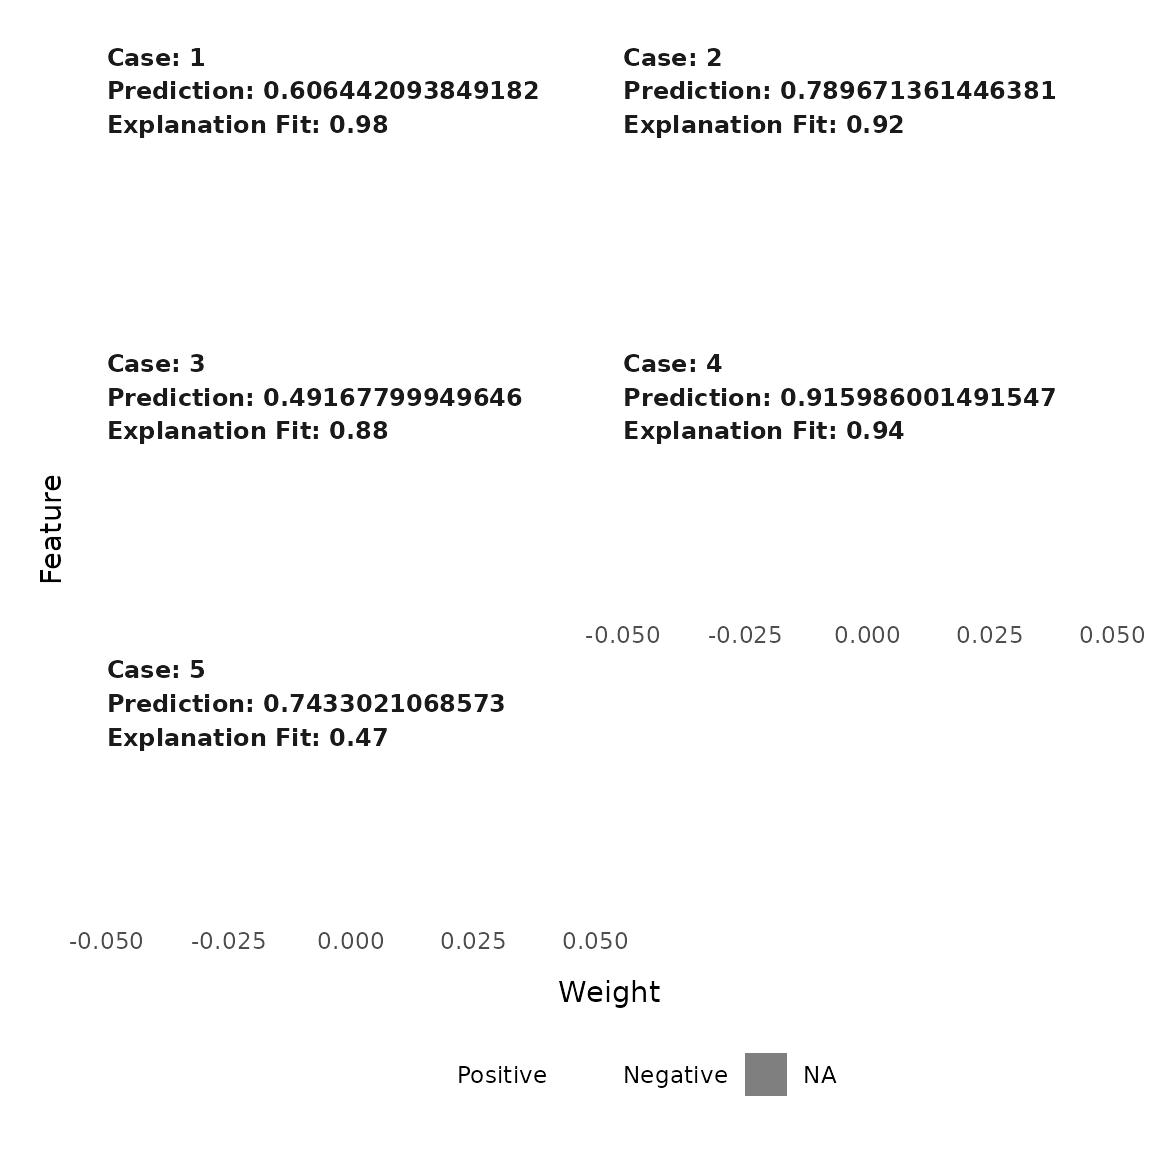
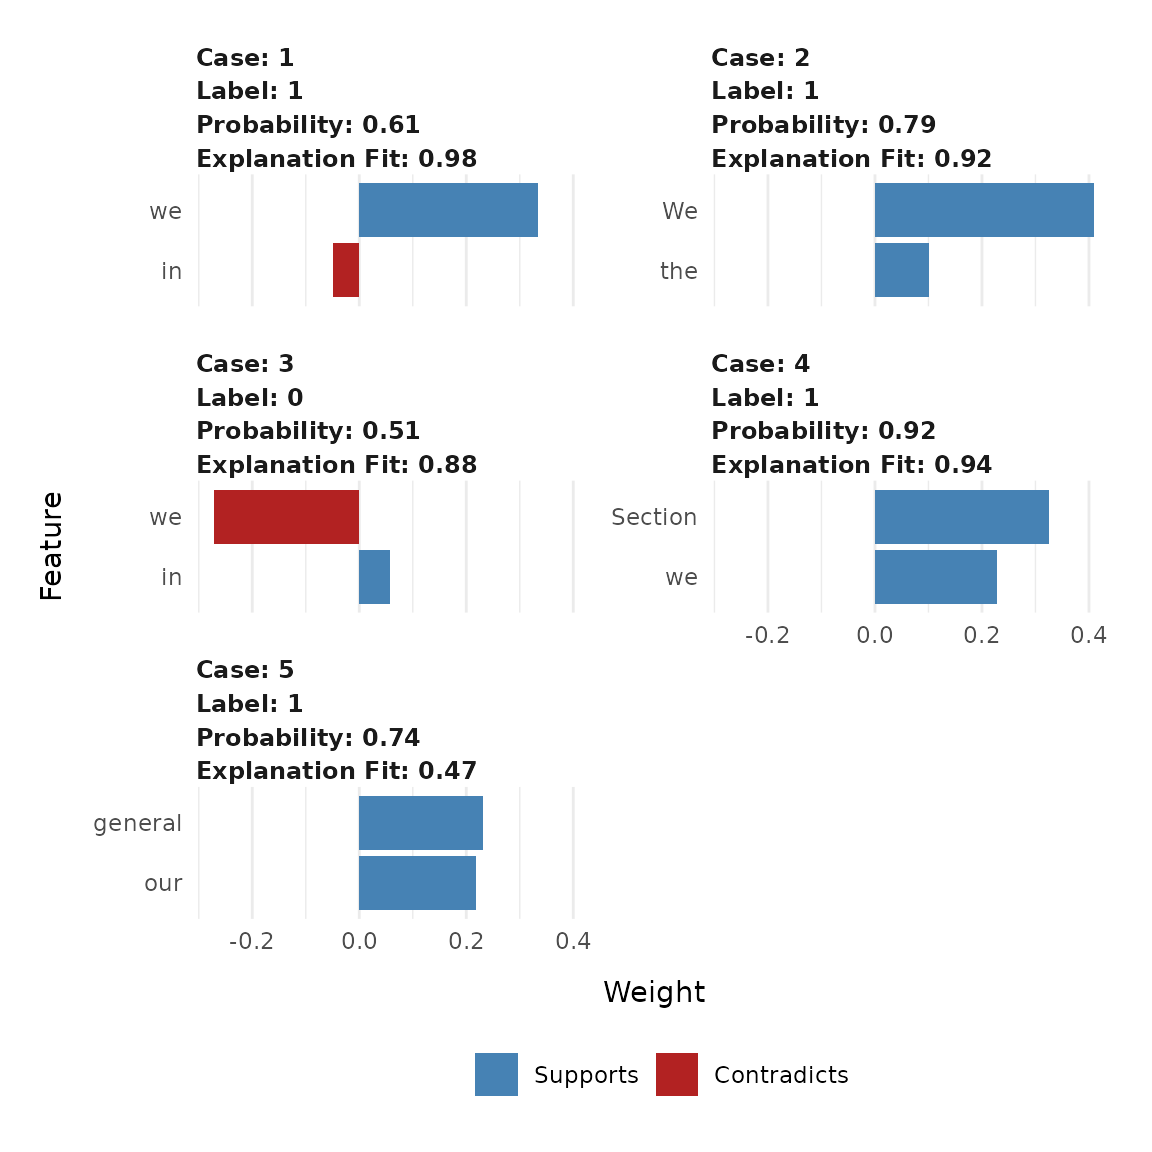
Deploying to gh-pages from @ tidymodels/lime@cdb8d6a0028526e7f50db6c62eb69ca609d4a9a8 🚀

diff --git a/articles/Understanding_lime.html b/articles/Understanding_lime.html
@@ -98,7 +98,7 @@
                         <h4 data-toc-skip class="author">Thomas Lin
 Pedersen &amp; Michaël Benesty</h4>
             
-            <h4 data-toc-skip class="date">2025-12-09</h4>
+            <h4 data-toc-skip class="date">2025-12-10</h4>
       
       <small class="dont-index">Source: <a href="https://github.com/tidymodels/lime/blob/main/vignettes/Understanding_lime.Rmd" class="external-link"><code>vignettes/Understanding_lime.Rmd</code></a></small>
       <div class="hidden name"><code>Understanding_lime.Rmd</code></div>
@@ -465,54 +465,36 @@ are the most important words for the predictions.</p>
 <span>  <span class="va">explainer</span>,</span>
 <span>  n_labels <span class="op">=</span> <span class="fl">1</span>,</span>
 <span>  n_features <span class="op">=</span> <span class="fl">2</span></span>
-<span><span class="op">)</span></span></code></pre></div>
-<pre><code><span><span class="co">## Warning in explain.character(sentence_to_explain, explainer, n_labels = 1, :</span></span>
-<span><span class="co">## "labels" and "n_labels" arguments are ignored when explaining regression models</span></span></code></pre>
-<pre><code><span><span class="co">## Warning in throw_err_or_depr_msg("Parameter(s) have been removed from this</span></span>
-<span><span class="co">## function: ", : Parameter(s) have been removed from this function: reshape. This</span></span>
-<span><span class="co">## warning will become an error in a future version.</span></span></code></pre>
-<div class="sourceCode" id="cb19"><pre class="downlit sourceCode r">
-<code class="sourceCode R"><span><span class="co"># Most of the words choosen by Lime</span></span>
+<span><span class="op">)</span></span>
+<span></span>
+<span><span class="co"># Most of the words choosen by Lime</span></span>
 <span><span class="co"># are related to the team (we, our)</span></span>
 <span><span class="co"># or part of the paper (Section, in)</span></span>
 <span><span class="va">explanation</span><span class="op">[</span>, <span class="fl">2</span><span class="op">:</span><span class="fl">9</span><span class="op">]</span></span></code></pre></div>
 <pre><code><span><span class="co">## <span style="color: #949494;"># A data frame: 10 × 8</span></span></span>
-<span><span class="co">##     case model_r2 model_intercept model_prediction feature feature_value</span></span>
-<span><span class="co">##    <span style="color: #949494; font-style: italic;">&lt;int&gt;</span>    <span style="color: #949494; font-style: italic;">&lt;dbl&gt;</span>           <span style="color: #949494; font-style: italic;">&lt;dbl&gt;</span>            <span style="color: #949494; font-style: italic;">&lt;dbl&gt;</span> <span style="color: #949494; font-style: italic;">&lt;chr&gt;</span>   <span style="color: #949494; font-style: italic;">&lt;chr&gt;</span>        </span></span>
-<span><span class="co">## <span style="color: #BCBCBC;"> 1</span>     1    0.980           0.333            0.618 we      we           </span></span>
-<span><span class="co">## <span style="color: #BCBCBC;"> 2</span>     1    0.980           0.333            0.618 in      in           </span></span>
-<span><span class="co">## <span style="color: #BCBCBC;"> 3</span>     2    0.916           0.253            0.762 We      We           </span></span>
-<span><span class="co">## <span style="color: #BCBCBC;"> 4</span>     2    0.916           0.253            0.762 the     the          </span></span>
-<span><span class="co">## <span style="color: #BCBCBC;"> 5</span>     3    0.883           0.318            0.533 we      we           </span></span>
-<span><span class="co">## <span style="color: #BCBCBC;"> 6</span>     3    0.883           0.318            0.533 in      in           </span></span>
-<span><span class="co">## <span style="color: #BCBCBC;"> 7</span>     4    0.943           0.388            0.940 Section Section      </span></span>
-<span><span class="co">## <span style="color: #BCBCBC;"> 8</span>     4    0.943           0.388            0.940 we      we           </span></span>
-<span><span class="co">## <span style="color: #BCBCBC;"> 9</span>     5    0.468           0.273            0.722 general general      </span></span>
-<span><span class="co">## <span style="color: #BCBCBC;">10</span>     5    0.468           0.273            0.722 our     our          </span></span>
-<span><span class="co">## <span style="color: #949494;"># ℹ 2 more variables: feature_weight &lt;dbl&gt;, feature_desc &lt;chr&gt;</span></span></span></code></pre>
-<div class="sourceCode" id="cb21"><pre class="downlit sourceCode r">
+<span><span class="co">##     case label label_prob model_r2 model_intercept model_prediction feature</span></span>
+<span><span class="co">##    <span style="color: #949494; font-style: italic;">&lt;int&gt;</span> <span style="color: #949494; font-style: italic;">&lt;chr&gt;</span>      <span style="color: #949494; font-style: italic;">&lt;dbl&gt;</span>    <span style="color: #949494; font-style: italic;">&lt;dbl&gt;</span>           <span style="color: #949494; font-style: italic;">&lt;dbl&gt;</span>            <span style="color: #949494; font-style: italic;">&lt;dbl&gt;</span> <span style="color: #949494; font-style: italic;">&lt;chr&gt;</span>  </span></span>
+<span><span class="co">## <span style="color: #BCBCBC;"> 1</span>     1 1          0.606    0.980           0.333            0.618 we     </span></span>
+<span><span class="co">## <span style="color: #BCBCBC;"> 2</span>     1 1          0.606    0.980           0.333            0.618 in     </span></span>
+<span><span class="co">## <span style="color: #BCBCBC;"> 3</span>     2 1          0.790    0.916           0.253            0.762 We     </span></span>
+<span><span class="co">## <span style="color: #BCBCBC;"> 4</span>     2 1          0.790    0.916           0.253            0.762 the    </span></span>
+<span><span class="co">## <span style="color: #BCBCBC;"> 5</span>     3 0          0.508    0.883           0.682            0.467 we     </span></span>
+<span><span class="co">## <span style="color: #BCBCBC;"> 6</span>     3 0          0.508    0.883           0.682            0.467 in     </span></span>
+<span><span class="co">## <span style="color: #BCBCBC;"> 7</span>     4 1          0.916    0.943           0.388            0.940 Section</span></span>
+<span><span class="co">## <span style="color: #BCBCBC;"> 8</span>     4 1          0.916    0.943           0.388            0.940 we     </span></span>
+<span><span class="co">## <span style="color: #BCBCBC;"> 9</span>     5 1          0.743    0.468           0.273            0.722 general</span></span>
+<span><span class="co">## <span style="color: #BCBCBC;">10</span>     5 1          0.743    0.468           0.273            0.722 our    </span></span>
+<span><span class="co">## <span style="color: #949494;"># ℹ 1 more variable: feature_value &lt;chr&gt;</span></span></span></code></pre>
+<div class="sourceCode" id="cb18"><pre class="downlit sourceCode r">
 <code class="sourceCode R"><span><span class="co"># Another more graphical view of the same information (2 first sentences only)</span></span>
 <span><span class="fu"><a href="../reference/plot_features.html">plot_features</a></span><span class="op">(</span><span class="va">explanation</span><span class="op">)</span></span></code></pre></div>
-<pre><code><span><span class="co">## Warning in plot_features(explanation): NAs introduced by coercion</span></span></code></pre>
-<pre><code><span><span class="co">## Warning: Position guide is perpendicular to the intended axis.</span></span>
-<span><span class="co">## <span style="color: #00BBBB;">ℹ</span> Did you mean to specify a different guide `position`?</span></span>
-<span><span class="co">## Position guide is perpendicular to the intended axis.</span></span>
-<span><span class="co">## <span style="color: #00BBBB;">ℹ</span> Did you mean to specify a different guide `position`?</span></span>
-<span><span class="co">## Position guide is perpendicular to the intended axis.</span></span>
-<span><span class="co">## <span style="color: #00BBBB;">ℹ</span> Did you mean to specify a different guide `position`?</span></span>
-<span><span class="co">## Position guide is perpendicular to the intended axis.</span></span>
-<span><span class="co">## <span style="color: #00BBBB;">ℹ</span> Did you mean to specify a different guide `position`?</span></span>
-<span><span class="co">## Position guide is perpendicular to the intended axis.</span></span>
-<span><span class="co">## <span style="color: #00BBBB;">ℹ</span> Did you mean to specify a different guide `position`?</span></span></code></pre>
-<pre><code><span><span class="co">## Warning: Removed 10 rows containing missing values or values outside the scale range</span></span>
-<span><span class="co">## (`geom_col()`).</span></span></code></pre>
 <p><img src="Understanding_lime_files/figure-html/unnamed-chunk-8-1.png" class="r-plt" width="70%" style="display: block; margin: auto;"></p>
 <p>The graph view gives lots of detailed information about the selected
 words. Another approach to explain a text classification model is to see
 the most important words in their context. This requires htmlwidgets and
 will not be evaluated in this vignette, but you can run it locally and
 examine the output</p>
-<div class="sourceCode" id="cb25"><pre class="downlit sourceCode r">
+<div class="sourceCode" id="cb19"><pre class="downlit sourceCode r">
 <code class="sourceCode R"><span><span class="fu"><a href="../reference/text_explanations.html">plot_text_explanations</a></span><span class="op">(</span><span class="va">explanation</span><span class="op">)</span></span></code></pre></div>
 <p>If you have run this locally you can see that for some sentences, the
 prediction is wrong. For instance, look at the third sentence. The word
@@ -529,7 +511,7 @@ category <code>OWNX</code>, mainly because of the presence of the word
 explore interactively the model.</p>
 <p>After loading the application, both text and parameters can be
 modified. Prediction and selected words are updated in real time.</p>
-<div class="sourceCode" id="cb26"><pre class="downlit sourceCode r">
+<div class="sourceCode" id="cb20"><pre class="downlit sourceCode r">
 <code class="sourceCode R"><span><span class="co"># Launching the application is done in one command</span></span>
 <span><span class="fu"><a href="../reference/interactive_text_explanations.html">interactive_text_explanations</a></span><span class="op">(</span><span class="va">explainer</span><span class="op">)</span></span></code></pre></div>
 <div class="float">
@@ -549,7 +531,7 @@ modified. Prediction and selected words are updated in real time.</p>
 <span><span class="co">##  collate  C.UTF-8</span></span>
 <span><span class="co">##  ctype    C.UTF-8</span></span>
 <span><span class="co">##  tz       UTC</span></span>
-<span><span class="co">##  date     2025-12-09</span></span>
+<span><span class="co">##  date     2025-12-10</span></span>
 <span><span class="co">##  pandoc   3.1.11 @ /opt/hostedtoolcache/pandoc/3.1.11/x64/ (via rmarkdown)</span></span>
 <span><span class="co">##  quarto   NA</span></span>
 <span><span class="co">## </span></span>
@@ -585,7 +567,7 @@ modified. Prediction and selected words are updated in real time.</p>
 <span><span class="co">##  lattice        0.22-7     <span style="color: #555555;">2025-04-02</span> <span style="color: #555555;">[3]</span> <span style="color: #555555;">CRAN (R 4.5.2)</span></span></span>
 <span><span class="co">##  lgr            0.5.0      <span style="color: #555555;">2025-07-23</span> <span style="color: #555555;">[1]</span> <span style="color: #BB00BB; font-weight: bold;">RSPM</span></span></span>
 <span><span class="co">##  lifecycle      1.0.4      <span style="color: #555555;">2023-11-07</span> <span style="color: #555555;">[1]</span> <span style="color: #BB00BB; font-weight: bold;">RSPM</span></span></span>
-<span><span class="co">##  lime         * <span style="color: #BB00BB; font-weight: bold;">0.5.3.9000</span> <span style="color: #555555;">2025-12-09</span> <span style="color: #555555;">[1]</span> <span style="color: #BB00BB; font-weight: bold;">local</span></span></span>
+<span><span class="co">##  lime         * <span style="color: #BB00BB; font-weight: bold;">0.5.3.9000</span> <span style="color: #555555;">2025-12-10</span> <span style="color: #555555;">[1]</span> <span style="color: #BB00BB; font-weight: bold;">local</span></span></span>
 <span><span class="co">##  MASS         * 7.3-65     <span style="color: #555555;">2025-02-28</span> <span style="color: #555555;">[3]</span> <span style="color: #555555;">CRAN (R 4.5.2)</span></span></span>
 <span><span class="co">##  Matrix         1.7-4      <span style="color: #555555;">2025-08-28</span> <span style="color: #555555;">[3]</span> <span style="color: #555555;">CRAN (R 4.5.2)</span></span></span>
 <span><span class="co">##  mlapi          0.1.1      <span style="color: #555555;">2022-04-24</span> <span style="color: #555555;">[1]</span> <span style="color: #BB00BB; font-weight: bold;">RSPM</span></span></span>

diff --git a/news/index.html b/news/index.html
@@ -70,7 +70,8 @@
 
     <div class="section level2">
 <h2 class="page-header" data-toc-text="development version" id="lime-development-version">lime (development version)<a class="anchor" aria-label="anchor" href="#lime-development-version"></a></h2>
-</div>
+<ul><li>Make package work with all versions of xgboost. (<a href="https://github.com/tidymodels/lime/issues/202" class="external-link">#202</a>)</li>
+</ul></div>
     <div class="section level2">
 <h2 class="page-header" data-toc-text="0.5.3" id="lime-053">lime 0.5.3<small>2022-08-19</small><a class="anchor" aria-label="anchor" href="#lime-053"></a></h2>
 <ul><li>Emil Hvitfelt is taking over maintenance</li>
